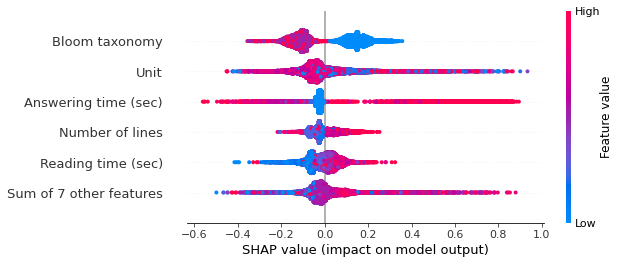
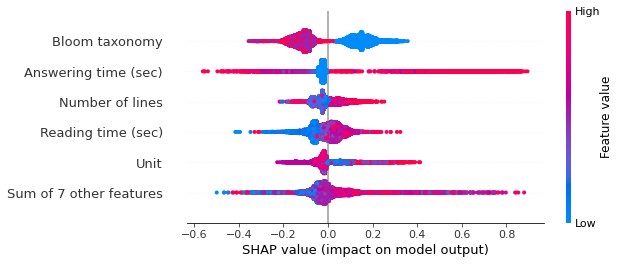
beeswarm and plot for global

diff --git a/src/app/table-list/table-list.component.html b/src/app/table-list/table-list.component.html
@@ -78,12 +78,26 @@
           <div class="col-12" *ngIf="status == 1">
             <div class="card">
                 <div class="card-header card-header-info">
+                    <h4 class="card-title ">Feature importance</h4>
+                    <p class="card-category">Top-5 features</p>
+                </div>
+                <div class="card-body  text-center">
+                    <p class="text-left">Each feature with its absolute mean value. </p>
+                    <img class="img img-features align-self-center" src="./assets/img/plots2.jpg" />
+                </div>
+            </div>
+          </div>
+          <div class="col-12" *ngIf="status == 1">
+            <div class="card">
+                <div class="card-header card-header-info">
                     <h4 class="card-title ">Overall questions</h4>
                     <p class="card-category">Top-5 features</p>
                 </div>
                 <div class="card-body  text-center">
+                    <p class="text-left">Each question is represented by a single dot on each feature fow. </p>
                     <img class="img img-features align-self-center" src="./assets/img/beeswarm2.jpg" />
                 </div>
+            </div>
           </div>
           <!--div class="col-md-12">
               <div class="card card-plain">
